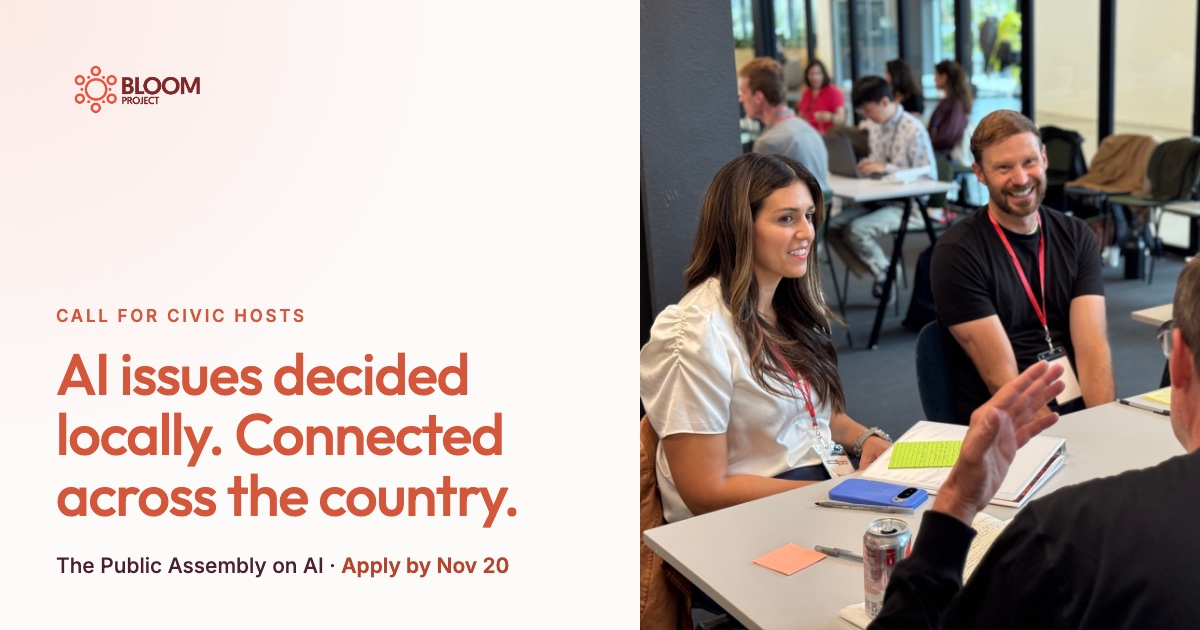
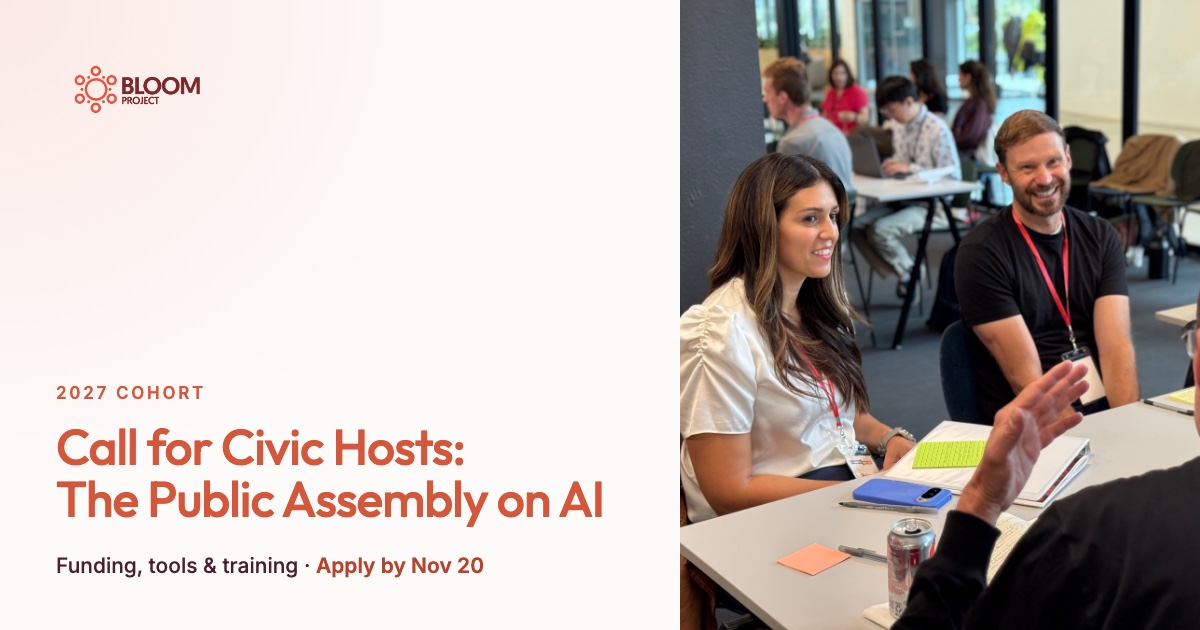
Cohort page: link Utah and Oregon, drop pilots stats, new headline and share card
- Intro: "Utah" and "Oregon" link to the homepage's Where we work section
  (clickable in the click-to-edit preview too).
- Remove the "From our 2026 pilots" stats block.
- Headline "Call for Civic Hosts: The Public Assembly on AI"; hero label
  cleared (edits made in the preview).
- Regenerated share image with the new headline; updated its alt text.
- Application form intro: "The application takes about an hour."

diff --git a/src/pages/CohortPage.tsx b/src/pages/CohortPage.tsx
@@ -19,17 +19,50 @@ const SECTIONS = ["paths", "who", "host-roles", "support", "tools", "impact", "t
 
 const FILE = "cohort.json";
 
+/** Split text so the first occurrence of each listed word becomes a link. */
+function linkWords(text: string, links: Record<string, string>) {
+  const words = Object.keys(links).filter((w) => text.includes(w));
+  if (!words.length) return text;
+  const pattern = new RegExp(`(${words.map((w) => w.replace(/[.*+?^${}()|[\]\\]/g, "\\$&")).join("|")})`);
+  const used = new Set<string>();
+  return text.split(pattern).map((part, i) => {
+    if (links[part] && !used.has(part)) {
+      used.add(part);
+      return (
+        // Not editable, so the link still works inside click-to-edit text in local dev.
+        <a key={i} href={links[part]} contentEditable={false} className="underline decoration-bloom-300 underline-offset-4 hover:text-bloom-600">
+          {part}
+        </a>
+      );
+    }
+    return part;
+  });
+}
+
 /**
  * Text that's click-to-edit in local dev and plain text on the live site.
  * Empty text renders nothing, so deleting a line on the page also removes its spacing.
  */
-function E({ path, as, className, children }: { path: string; as?: "span" | "p" | "div"; className?: string; children: string }) {
+function E({
+  path,
+  as,
+  className,
+  children,
+  links,
+}: {
+  path: string;
+  as?: "span" | "p" | "div";
+  className?: string;
+  children: string;
+  /** Words to link, e.g. { Utah: "/#work" }. The first occurrence of each becomes a link. */
+  links?: Record<string, string>;
+}) {
   if (!children.trim()) return null;
   // Show line breaks typed into the text (Enter) as breaks on the page.
   const cls = children.includes("\n") ? `${className ?? ""} whitespace-pre-line` : className;
   return (
     <Editable file={FILE} path={path} as={as} className={cls}>
-      {children}
+      {links ? linkWords(children, links) : children}
     </Editable>
   );
 }
@@ -164,7 +197,12 @@ export default function CohortPage() {
           <h1 className="mt-5 max-w-4xl font-display text-5xl font-medium leading-[1.02] tracking-tight text-bloom-500 sm:text-6xl lg:text-7xl">
             <E path="hero.heading">{c.hero.heading}</E>
           </h1>
-          <E as="p" path="hero.intro" className="mt-6 block max-w-xl text-base leading-relaxed text-maroon-900/85">
+          <E
+            as="p"
+            path="hero.intro"
+            links={{ Utah: sectionHref("work"), Oregon: sectionHref("work") }}
+            className="mt-6 block max-w-xl text-base leading-relaxed text-maroon-900/85"
+          >
             {c.hero.intro}
           </E>
           <p className="mt-8 text-sm font-semibold text-maroon-900">{statusLine}</p>
@@ -180,32 +218,6 @@ export default function CohortPage() {
             </p>
           )}
 
-          <div className="mt-14 border-t border-blush-200 pt-6">
-            <div className="flex flex-wrap items-baseline justify-between gap-3">
-              <Eyebrow>
-                <E path="hero.statsLabel">{c.hero.statsLabel}</E>
-              </Eyebrow>
-              <a
-                href={sectionHref("work")}
-                className="group inline-flex items-center gap-2 text-sm font-medium text-bloom-600 underline decoration-bloom-300 underline-offset-4 hover:text-bloom-700"
-              >
-                {c.hero.statsLink}
-                <span aria-hidden="true" className="transition-transform group-hover:translate-x-0.5">&rarr;</span>
-              </a>
-            </div>
-            <ul className="mt-8 grid grid-cols-1 gap-x-6 gap-y-8 sm:grid-cols-3">
-            {c.stats.map((s, i) => (
-              <li key={i}>
-                <E as="p" path={`stats.${i}.value`} className="font-display text-4xl font-medium tracking-tight text-bloom-500 sm:text-5xl">
-                  {s.value}
-                </E>
-                <E as="p" path={`stats.${i}.label`} className="mt-2 max-w-[18rem] text-sm leading-snug text-maroon-900/75">
-                  {s.label}
-                </E>
-              </li>
-            ))}
-          </ul>
-          </div>
         </div>
       </section>
 

diff --git a/cohort/index.html b/cohort/index.html
@@ -15,7 +15,7 @@
     <meta property="og:image" content="%VITE_SITE_URL%/share/cohort-call-for-civic-hosts.jpg" />
     <meta property="og:image:width" content="1200" />
     <meta property="og:image:height" content="630" />
-    <meta property="og:image:alt" content="Call for Civic Hosts: AI issues decided locally. Connected across the country. The Public Assembly on AI. Apply by Nov 20." />
+    <meta property="og:image:alt" content="2027 Cohort. Call for Civic Hosts: The Public Assembly on AI. Funding, tools and training. Apply by Nov 20." />
     <meta name="twitter:card" content="summary_large_image" />
     <meta name="twitter:title" content="Call for Civic Hosts · Public Assembly on AI | BLOOM" />
     <meta name="twitter:description" content="Lead your community’s conversation on AI. Civic Hosts receive $10,000–$60,000, tools, and training to run a community assembly in 2027. Apply by Nov 20." />
